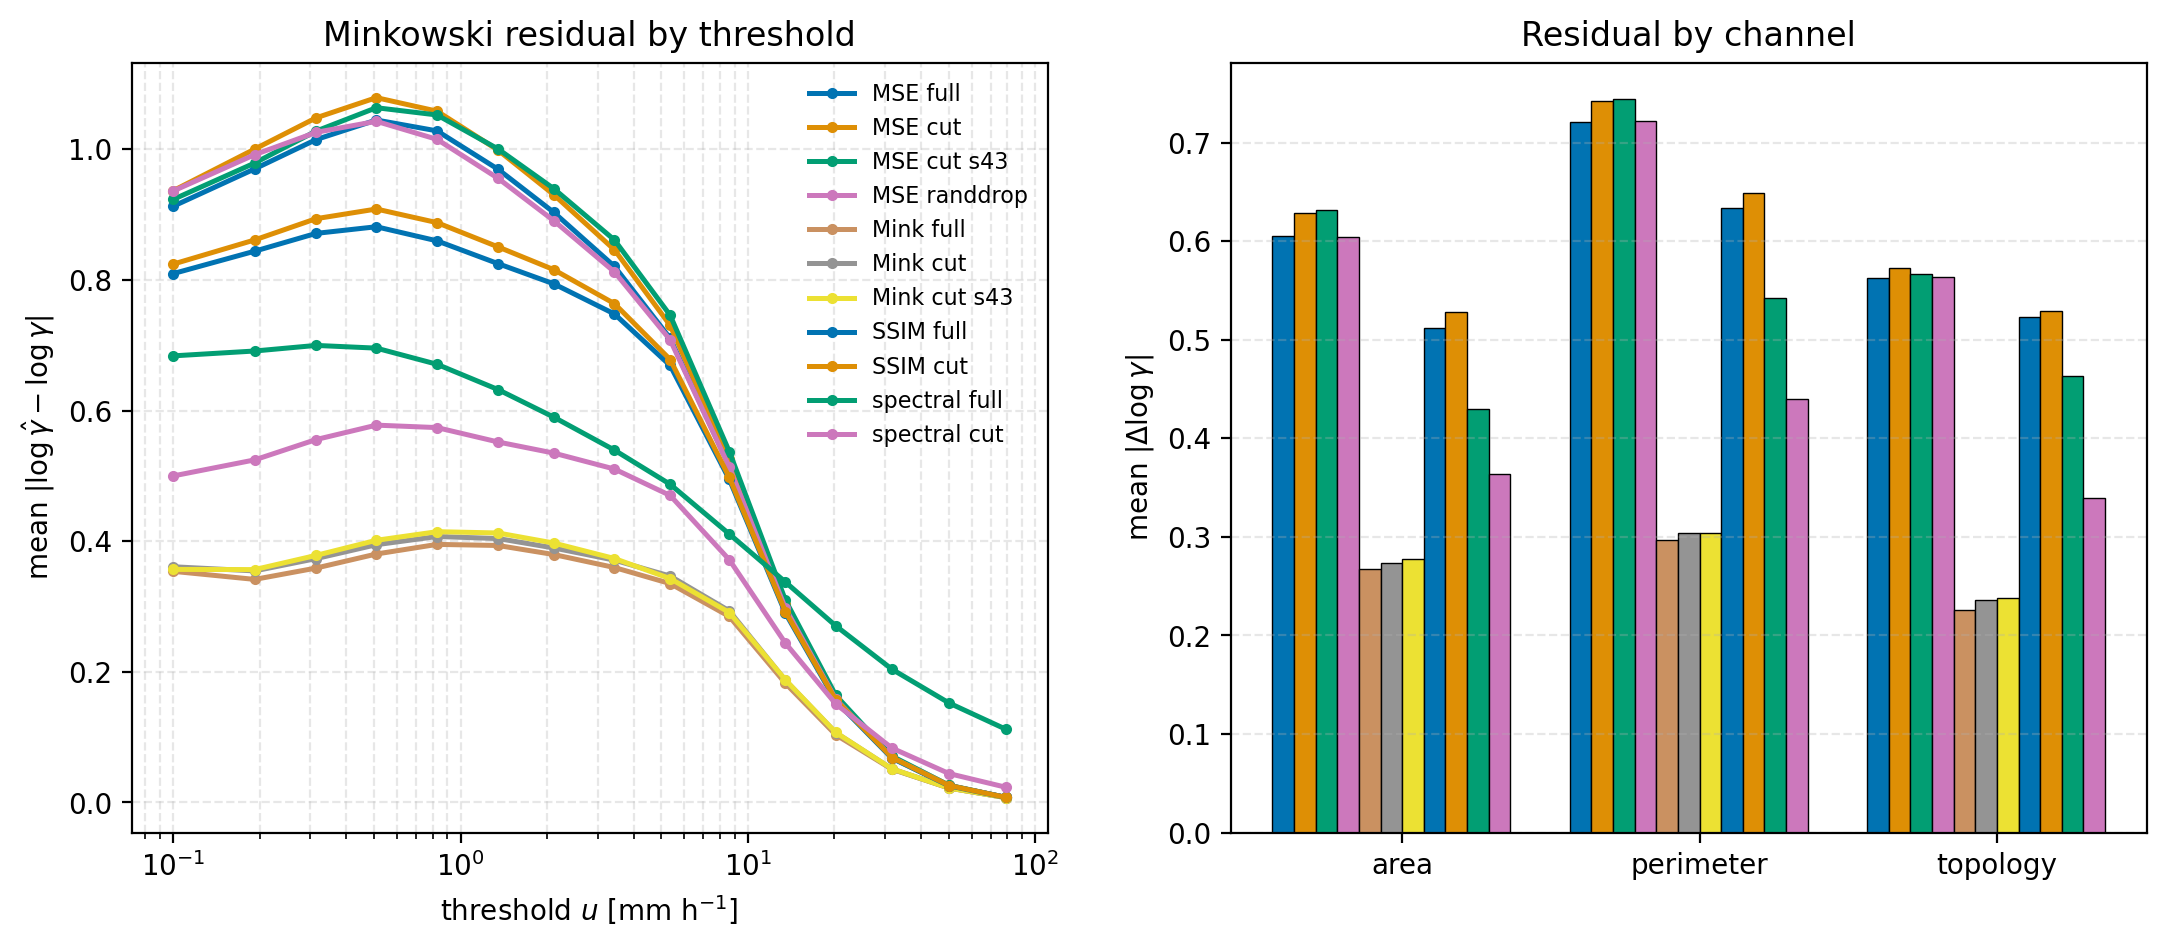
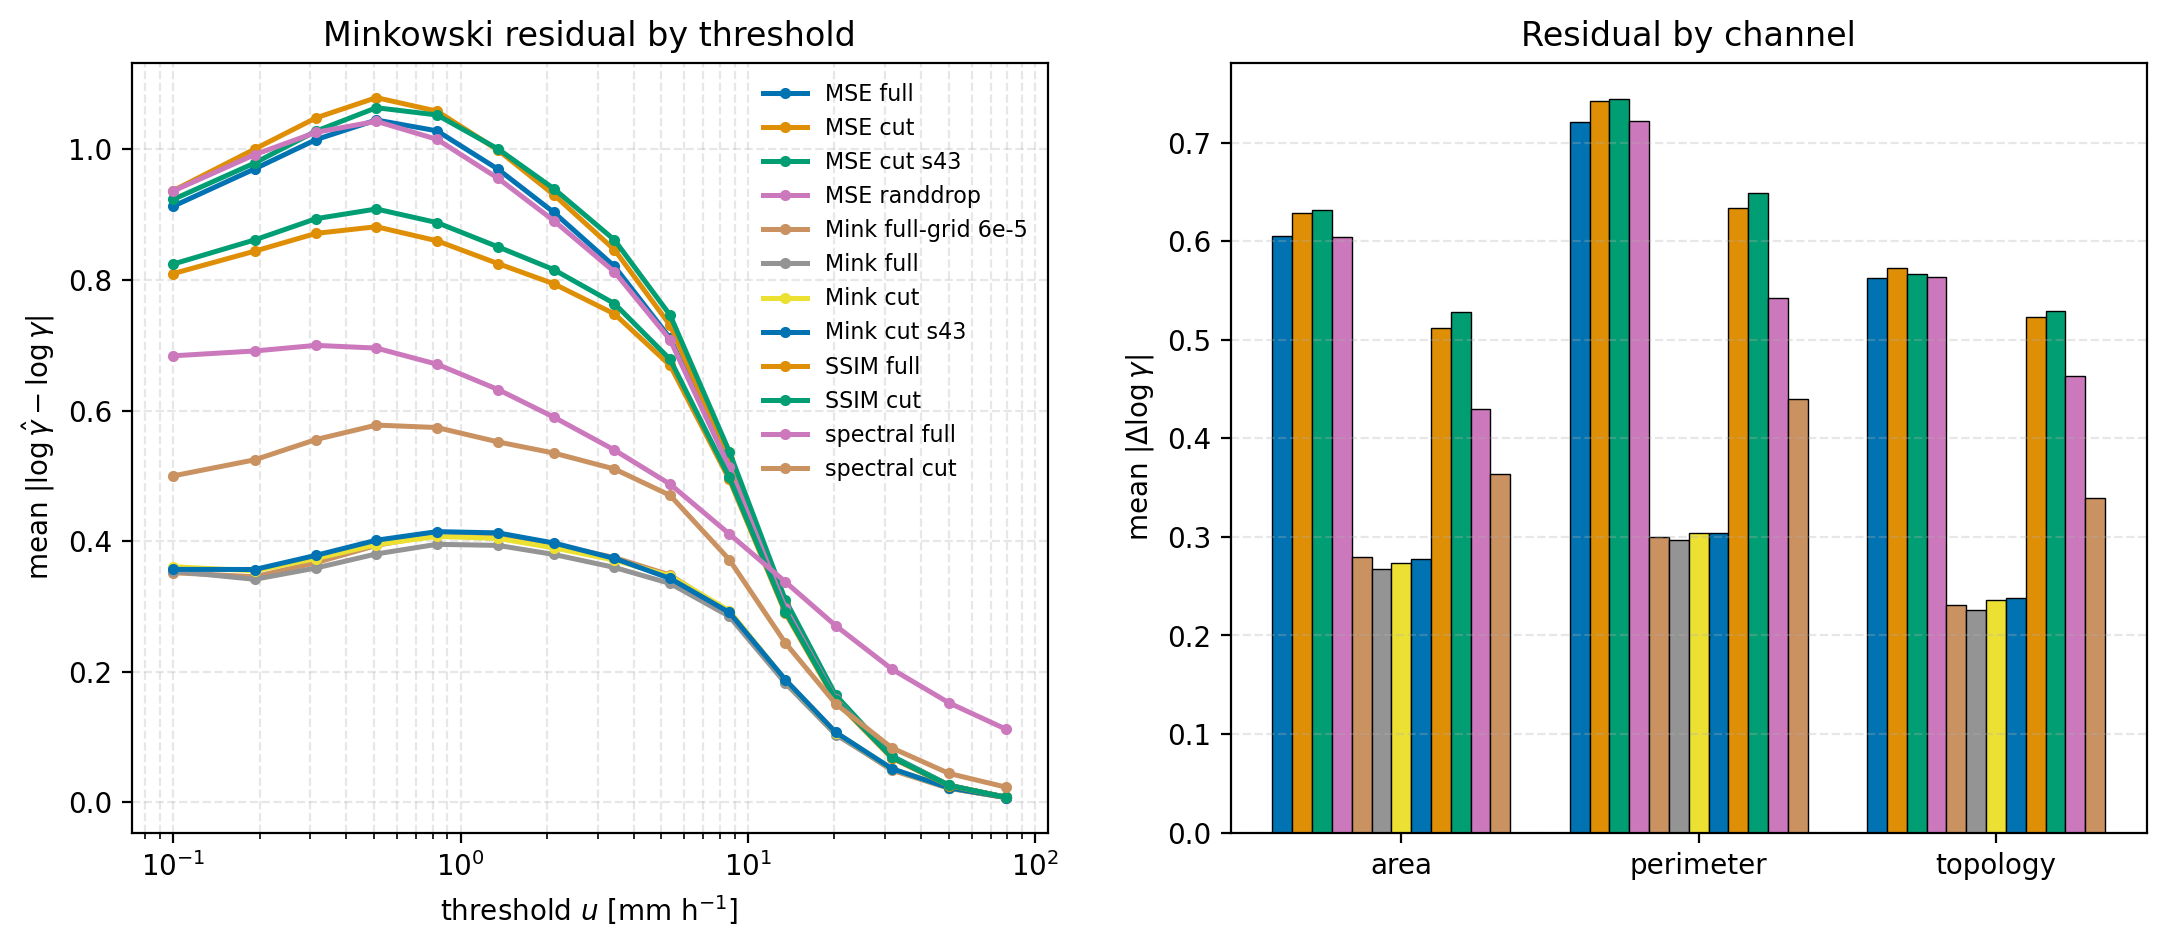
Minkowski functionals bulk vs extremes in the standard eval figures
plotting.functionals_bulk_vs_extremes (called by make_all): mean A/P/T curves and
per-patch residuals split at the eval's POT level u_c (bulk = target max 0.1-u_c,
extremes >= u_c). eval_extremes.py now saves gamma_hat / gamma_target / thresholds
like eval_backbone.py (FM: the same single member as the structure metrics), so
FM and other evals get the figure on their next run. Checked: 256 val patches,
gamma_target identical to the backbone eval, gamma_hat within one pixel.

R4 figures regenerated with the full-grid Minkowski 6e-5 run; focused
MSE/Minkowski set in figures/v4adv_val_r4_mink_mse/.

diff --git a/src/evaluation/plotting.py b/src/evaluation/plotting.py
@@ -414,6 +414,74 @@ def gamma_curves(models: Sequence[Model], out_dir: str, name: str = "gamma_curve
     return _save(fig, out_dir, name)
 
 
+def functionals_bulk_vs_extremes(models: Sequence[Model], out_dir: str,
+                                 name: str = "functionals_bulk_vs_extremes.png"):
+    """Mean Minkowski curves and residuals, split by the target tile max at the POT level u_c.
+
+    bulk = target max in [0.1, u_c), extremes = target max >= u_c, with u_c the eval's
+    ``pot_threshold_mmph`` (50.1 mm on v4, the level removed from the R4 cut lists). The residual
+    is prediction - target in signed-log space, per patch, then averaged, so each model is
+    compared with its own patches. The target line in the curve rows is drawn only when every
+    model was scored on the same patches.
+    """
+    rows = []
+    for m in models:
+        g, t, tmax = _gamma_pred_log(m), m.arr("gamma_target"), m.arr("tmax")
+        u_c = m.get("pot_threshold_mmph")
+        if g is None or t is None or tmax is None or u_c is None:
+            continue
+        if not (len(g) == len(t) == len(tmax)):   # merged dirs can mix sample sets
+            print(f"  [skip] {name}: {m.label}: gamma ({len(g)}) and tmax ({len(tmax)}) "
+                  f"cover different patches")
+            continue
+        rows.append((m, g, np.asarray(t, np.float64), np.asarray(tmax), float(u_c)))
+    if not rows:
+        print(f"  [skip] {name}: no model with gamma_hat, gamma_target, tmax and a POT level")
+        return None
+    if len({r[4] for r in rows}) > 1:
+        print(f"  [skip] {name}: models use different POT levels {sorted({r[4] for r in rows})}")
+        return None
+    u_c = rows[0][4]
+    m0 = rows[0][0]
+    u = np.asarray(m0.arr("thresholds"), float) if m0.arr("thresholds") is not None \
+        else np.arange(1, rows[0][1].shape[-1] + 1, dtype=float)
+    # tmax of the same patches differs by float noise (~1e-4 mm) between eval runs
+    same = all(len(r[3]) == len(rows[0][3]) and np.allclose(r[3], rows[0][3], atol=1e-2) for r in rows)
+
+    subsets = [("bulk", lambda x: (x >= 0.1) & (x < u_c)), ("extremes", lambda x: x >= u_c)]
+    fig, axes = plt.subplots(4, 3, figsize=(15, 15), sharex=True)
+    for r, (k, sel) in enumerate(subsets):
+        ac, ar = axes[2 * r], axes[2 * r + 1]
+        for c in range(3):
+            for m, g, t, tmax, _ in rows:
+                s = sel(tmax)
+                if not s.any():
+                    continue
+                ac[c].plot(u, g[s].mean(0)[c], color=m.color, lw=1.7, label=m.label)
+                ar[c].plot(u, (g[s] - t[s]).mean(0)[c], color=m.color, lw=1.7, label=m.label)
+            if same:
+                s = sel(rows[0][3])
+                ac[c].plot(u, rows[0][2][s].mean(0)[c], marker="s", markersize=3,
+                           label="target", **TARGET_STYLE)
+            ar[c].axhline(0, color="k", lw=1)
+            for ax in (ac[c], ar[c]):
+                ax.axvline(u_c, color="grey", lw=1, ls="-.")
+                ax.set_xscale("log")
+                ax.grid(alpha=0.3, which="both", linestyle="--")
+            n = sel(rows[0][3]).sum()
+            ac[c].set_title(f"{k} (n = {n:,}{'' if same else ', first model'}): {CHANNELS[c]}")
+            ar[c].set_title(f"{k}: {CHANNELS[c]}, prediction - target")
+        ac[0].set_ylabel(r"mean signed $\log(1+\cdot)$")
+        ar[0].set_ylabel("mean residual (signed log)")
+    for ax in axes[-1]:
+        ax.set_xlabel("threshold $u$")
+    axes[0, 0].legend(frameon=False, fontsize=8)
+    fig.suptitle(f"Minkowski functionals: bulk (target max 0.1-{u_c:g}) vs extremes (>= {u_c:g}); "
+                 f"dash-dot = u_c", y=0.995)
+    fig.tight_layout()
+    return _save(fig, out_dir, name)
+
+
 def gamma_residual_by_threshold(models: Sequence[Model], out_dir: str,
                                 name: str = "gamma_residual.png"):
     """Where along the threshold axis the Minkowski discrepancy actually sits.
@@ -934,5 +1002,6 @@ def make_all(models: Sequence[Model], out_dir: str, pixel_km: float = 2.0,
     tail_summary(models, out_dir)
     sal_plane(models, out_dir)
     gamma_curves(models, out_dir)
+    functionals_bulk_vs_extremes(models, out_dir)
     gamma_residual_by_threshold(models, out_dir)
     isoperimetric(models, out_dir)

diff --git a/scripts/evaluate/eval_extremes.py b/scripts/evaluate/eval_extremes.py
@@ -172,6 +172,7 @@ def main():
     mse_i, tmax_i, S_i, A_i, L_i, aniso_i, pk_i, crps_i = [], [], [], [], [], [], [], []
     mink_sum, nb = 0.0, 0
     spec_i = []
+    gamma_hat, gamma_tgt = [], []   # per-patch functionals, as eval_backbone.py saves them
     rapsd_p = rapsd_o = None
 
     with torch.no_grad():
@@ -204,6 +205,9 @@ def main():
 
             tmax_i.append(target.amax(dim=(1, 2, 3)).cpu().numpy())
             mink_sum += geom_fn(pred, Ygamma, anneal_factor=0.05).item(); nb += 1
+            a_, p_, t_ = geom_fn._functionals(pred, anneal_factor=0.05)   # fm: the same single member
+            gamma_hat.append(torch.stack([a_, p_, t_], dim=1).cpu().numpy())   # raw [B,3,Q]
+            gamma_tgt.append(Ygamma.cpu().numpy())                             # signed-log [B,3,Q]
             rp_b = compute_radial_power_spectrum(pred)          # [B,K]
             ro_b = compute_radial_power_spectrum(target)
             # Per-sample log-spectral distance, kept for the perception-distortion cloud.
@@ -281,7 +285,9 @@ def main():
                         rapsd_pred=rapsd_p, rapsd_target=rapsd_o,
                         gpd_pred=np.array([fit_p["xi"], fit_p["sigma"], fit_p["rate"]]),
                         gpd_obs=np.array([fit_o["xi"], fit_o["sigma"], fit_o["rate"]]),
-                        pot_threshold=np.float32(pot_u))
+                        pot_threshold=np.float32(pot_u),
+                        gamma_hat=np.concatenate(gamma_hat), gamma_target=np.concatenate(gamma_tgt),
+                        thresholds=np.asarray(u_phys, dtype=np.float32))
     print(yaml.safe_dump(summary, sort_keys=False))
 
 
